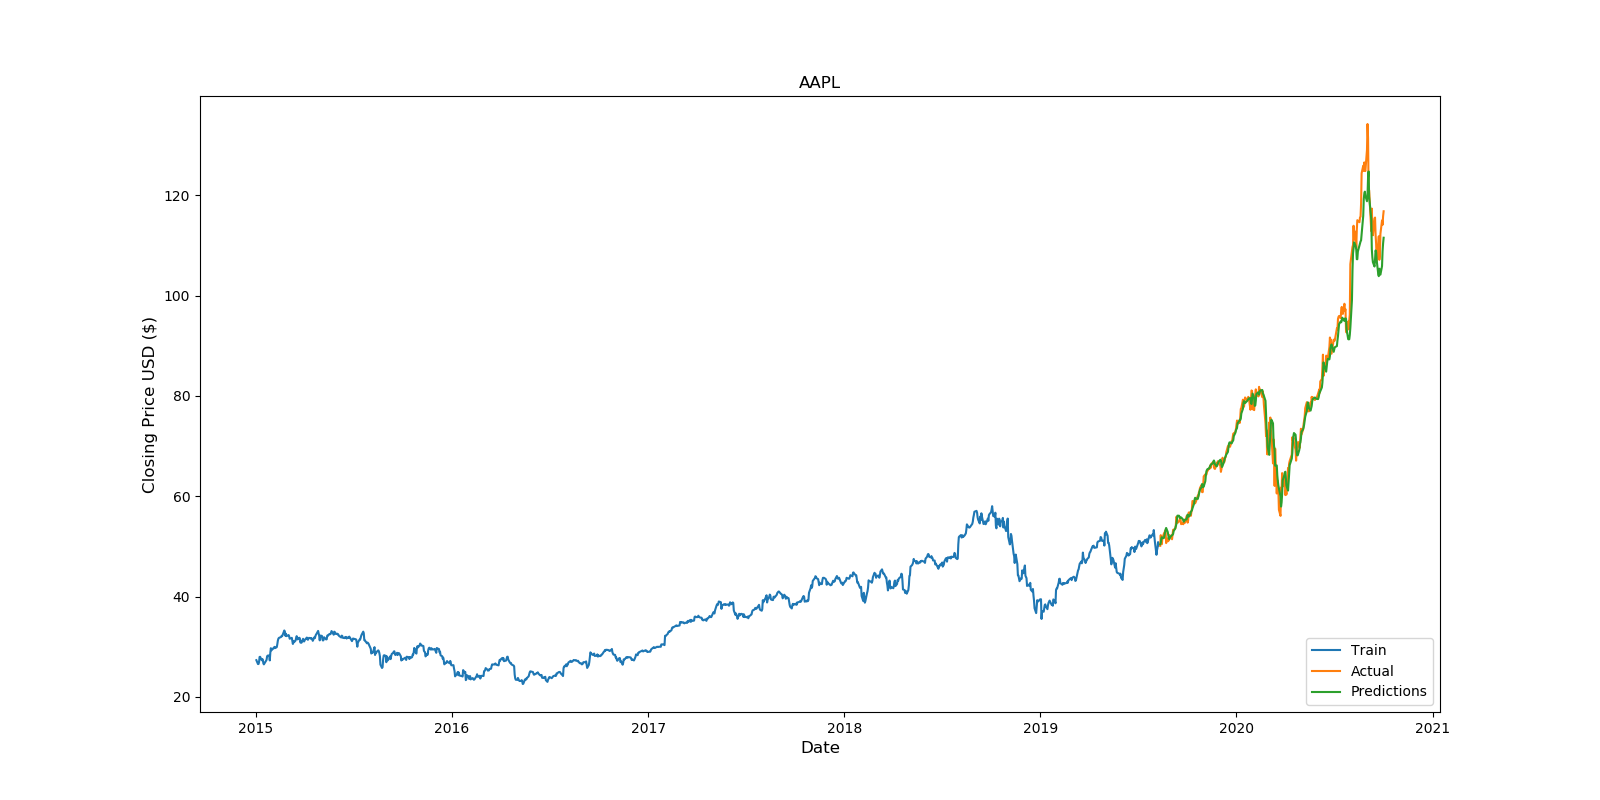
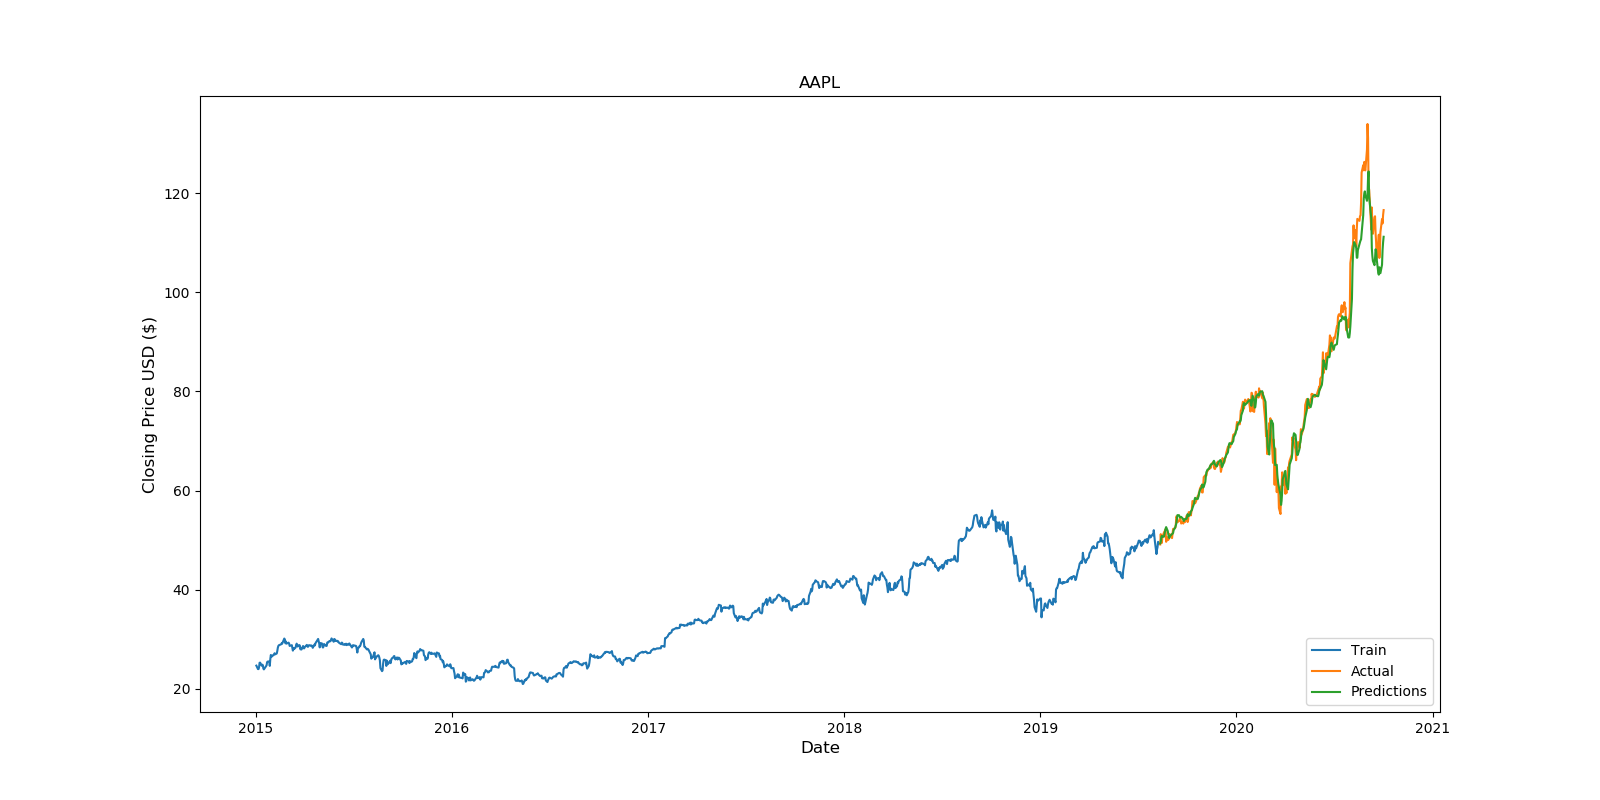
Fixed code

diff --git a/modelanalysis.py b/modelanalysis.py
@@ -14,8 +14,6 @@ from keras.models import Sequential, load_model
 from keras.layers import Dense, LSTM
 import math
 
-os.environ["CUDA_VISIBLE_DEVICES"] = "-1"
-
 def genLRPlotModel(ticker):
     df = pd.read_csv('data/%s.csv'%ticker, sep = ',', header = 0)
 
@@ -69,8 +67,8 @@ def genLRPlotModel(ticker):
 ################################### - LSTM - ##################################################
 def trainLSTM(ticker):
     #Create a new Dataframe
-    df = pandas_datareader.DataReader('V', data_source = 'yahoo', start = '2015-01-01', end = '2020-10-01')
-    data = df[['Close']]
+    df = pandas_datareader.DataReader(ticker, data_source = 'yahoo', start = '2015-01-01', end = '2020-10-01')
+    data = df[['Adj Close']]
     n = 60
 
     #Convert to numpy array
@@ -149,7 +147,7 @@ def plotLSTM(ticker):
     #Create a new Dataframe
     n = 60
     df = pandas_datareader.DataReader(ticker, data_source = 'yahoo', start = '2015-01-01', end = '2020-10-01')
-    data = df[['Close']]
+    data = df[['Adj Close']]
 
     dataset = np.array(data.values)
     dataset = np.reshape(dataset, (-1, 1))
@@ -189,25 +187,15 @@ def plotLSTM(ticker):
 
     train = data[:training_data_len]
     valid = data[training_data_len:]
-    #train = data.loc[:'2020-09-01']
-    #valid = data.loc['2020-09-01':]
-    #print(data.loc[:'2020-09-01'])
     valid['Predictions'] = predictions
-    #print(type(train))
-    #print(type(valid))
-    #predictions_series = []
-    #indices = list(range(162, 202))
-    #for prediction in predictions:
-    #    predictions_series.append(prediction)
-    #predictions = pd.Series(predictions_series, index = indices)
 
     # Visulaize the date
     plt.figure(figsize=(16,8))
     plt.title(ticker.upper())
     plt.xlabel('Date', fontsize=12)
     plt.ylabel('Closing Price USD ($)', fontsize=12)
-    plt.plot(train['Close'])
-    plt.plot(valid['Close'])
+    plt.plot(train['Adj Close'])
+    plt.plot(valid['Adj Close'])
     plt.plot(valid['Predictions'])
     plt.legend(['Train', 'Actual', 'Predictions'], loc='lower right')
     plt.savefig('lstm_figs/' + ticker + '.png')
